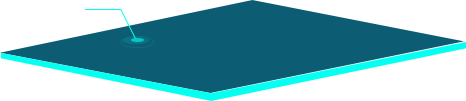
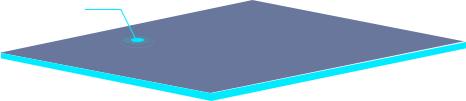
大数据页面迁移和样式修改

diff --git a/src/components/Command/dataAnalysis.less b/src/components/Command/dataAnalysis.less
@@ -130,6 +130,7 @@
         }
         .lfTitle {
             font-size: 18px;
+            color: #06FFF1;
             padding-left: 30px;
             margin-top: 14px;
             display: inline-block;
@@ -267,10 +268,10 @@
                 .ant-select-selection--single {
                     background: none;
                     color: white;
-                    border-color: #05fff1;
+                    border-color: #327DF4;
                 }
                 .ant-select-arrow {
-                    color: #05fff1;
+                    color: #327DF4;
                 }
             }
         }
@@ -293,7 +294,7 @@
                 color: #13CEC9;
                 font-size: 18px;
                 position: relative;
-                margin: 15px 0;
+                margin: 8px 0;
                 .item2 {
                     position: absolute;
                     top: -6px;
@@ -314,6 +315,7 @@
             background: url('../../assets/righttitle.png') no-repeat;
             height: 46px;
             background-size: 100% 100%;
+            color: #00EBFF;
             .rtimg {
                 position: relative;
                 left: 4%;
@@ -327,9 +329,10 @@
             }
         }
         .rightbody {
-            border: 1px #076379 solid;
-            box-shadow: inset 0 0 14px 0px #07526b;
+            border: 1px #1F2F5E solid;
+            box-shadow: inset 0 0 14px 0px #253E78;
             position: relative;
+            padding-bottom: 18px;
             .lb {
                 width: 14px;
                 height: 14px;
@@ -364,10 +367,11 @@
                     .ant-select-selection--single {
                         background: none;
                         color: white;
-                        border-color: #05fff1;
+                        border-color: #327DF4;
                     }
                     .ant-select-arrow {
-                        color: #05fff1;
+                        color: #327DF4;
+                        
                     }
                 }
             }
@@ -375,7 +379,7 @@
                 margin-top: 60px;
                 .wrt {
                     font-size: 18px;
-                    border-left: 1px #05FFF1 solid;
+                    border-left: 1px #2966BE solid;
                     padding-left: 10px;
                     margin-left: 10px;
                 }
@@ -387,7 +391,7 @@
                 margin-top: 4px;
                 .wrt {
                     font-size: 18px;
-                    border-left: 1px #05FFF1 solid;
+                    border-left: 1px #2966BE solid;
                     padding-left: 10px;
                     margin-left: 10px;
                 }

diff --git a/src/layouts/BasicLayout.js b/src/layouts/BasicLayout.js
@@ -136,7 +136,11 @@ export default class BasicLayout extends React.PureComponent {
                             <Route component={NoRight} />
                         </Switch>
                     </Content>
-                    {pathname == '/gismap/gismapPage'|| pathname =='/automation/autoRules'|| pathname =="/warningRules/addWarningRules"? null :
+                    {pathname == '/gismap/gismapPage'|| 
+                    pathname =='/automation/autoRules'|| 
+                    pathname =="/warningRules/addWarningRules"||
+                    pathname =="/command/dataCenter"
+                    ? null :
                         <Footer style={{ background: '#151837' }}>
                             <GlobalFooter
                                 links={[

diff --git a/src/layouts/basicLayout.less b/src/layouts/basicLayout.less
@@ -5,7 +5,7 @@
         .ant-layout{
             background: #0A0C1D;
         }
-        .ant-layout-sider{
+        .ant-layout-sider{ 
             width: 200px !important;
             background: #0A0C1D;
             height: 100vh;
@@ -20,6 +20,9 @@
         .ant-layout-sider-children {
             height: 100%;
             margin-top: -0.1px;
+        }
+        .ant-layout-content{
+            overflow: hidden;
         }
     }
 }

diff --git a/src/components/Command/electric.js b/src/components/Command/electric.js
@@ -61,7 +61,7 @@ export default class extends React.Component {
                     }}
                     grid={{
                         lineStyle: {
-                            stroke: '#076F82', // 网格线的颜色}
+                            stroke: '#214082', // 网格线的颜色}
                         }
                     }}
                 />
